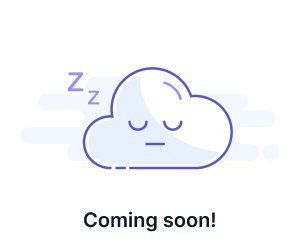
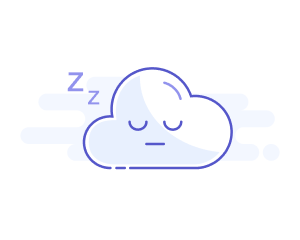
feat: update UI coming soon popup

Changed region(s): [[0.27, 0.875, 0.72, 0.9625]]

diff --git a/src/components/ui/dialog.tsx b/src/components/ui/dialog.tsx
@@ -123,28 +123,41 @@ function DialogDescription({
 }
 
 interface ComingSoonPopupProps {
+  title: string;
   featureName: string;
   open: boolean;
   onOpenChange: (open: boolean) => void;
 }
 
 function ComingSoonPopup({
+  title,
   featureName,
   open,
   onOpenChange,
 }: ComingSoonPopupProps) {
   return (
     <Dialog open={open} onOpenChange={onOpenChange}>
-      <DialogContent className="text-center">
-        <DialogTitle>{featureName}</DialogTitle>
-        <div className="mt-4 flex justify-center">
+      <DialogContent className="bg-background h-fit w-[400px]">
+        <div className="flex flex-col items-center justify-center">
           <Image
             src="/images/coming-soon.png"
             alt="Coming Soon"
             width={300}
-            height={200}
+            height={194}
             className="h-[200px] w-auto object-contain"
           />
+          <p className="mt-[-32px] mb-1 text-xl leading-7 font-bold text-[#121926]">
+            {title}
+          </p>
+          <p className="font-500 mb-8 text-sm leading-6 text-[#667085]">
+            {featureName}
+          </p>
+          <button
+            className="h-[38xp] cursor-pointer rounded-xl bg-[#FF8D0A] px-4 py-2 text-white"
+            onClick={() => onOpenChange(false)}
+          >
+            OK
+          </button>
         </div>
       </DialogContent>
     </Dialog>

diff --git a/src/components/layout/header-layout.tsx b/src/components/layout/header-layout.tsx
@@ -586,6 +586,7 @@ export default function Header({ locale = 'vi' }: { locale?: string }) {
       </div>
 
       <ComingSoonPopup
+        title={t_home.course_card.coming_soon}
         featureName={`${titleCourse}${t_home.coming_soon_popup.title}`}
         open={open}
         onOpenChange={setOpen}

diff --git a/src/app/[locale]/_components/course-grid.tsx b/src/app/[locale]/_components/course-grid.tsx
@@ -42,6 +42,7 @@ export default function CourseGrid({ locale }: { locale: ELocale }) {
         ))}
       </div>
       <ComingSoonPopup
+        title={t.course_card.coming_soon}
         featureName={`${titleCourse}${t.coming_soon_popup.title}`}
         open={open}
         onOpenChange={setOpen}

diff --git a/src/data/course.ts b/src/data/course.ts
@@ -2647,7 +2647,7 @@ export const courses = [
       },
     },
     en: {
-      name: 'PTE Expresse',
+      name: 'PTE Express',
       description: 'Fast-track your prep, secure your score',
       courseRoadmap: [
         {
